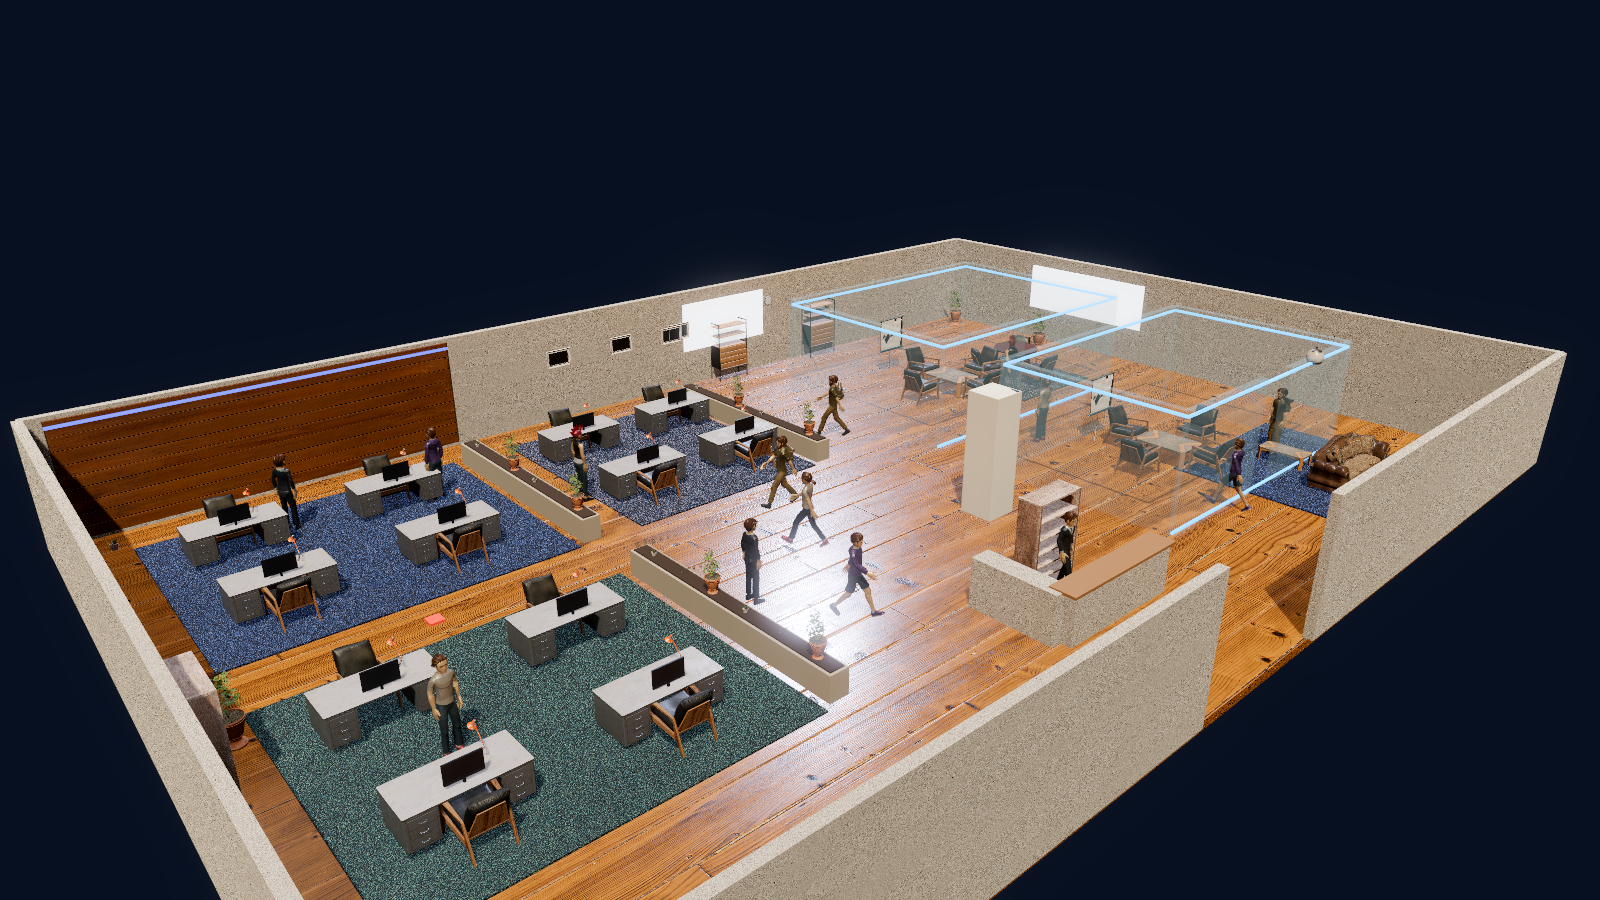
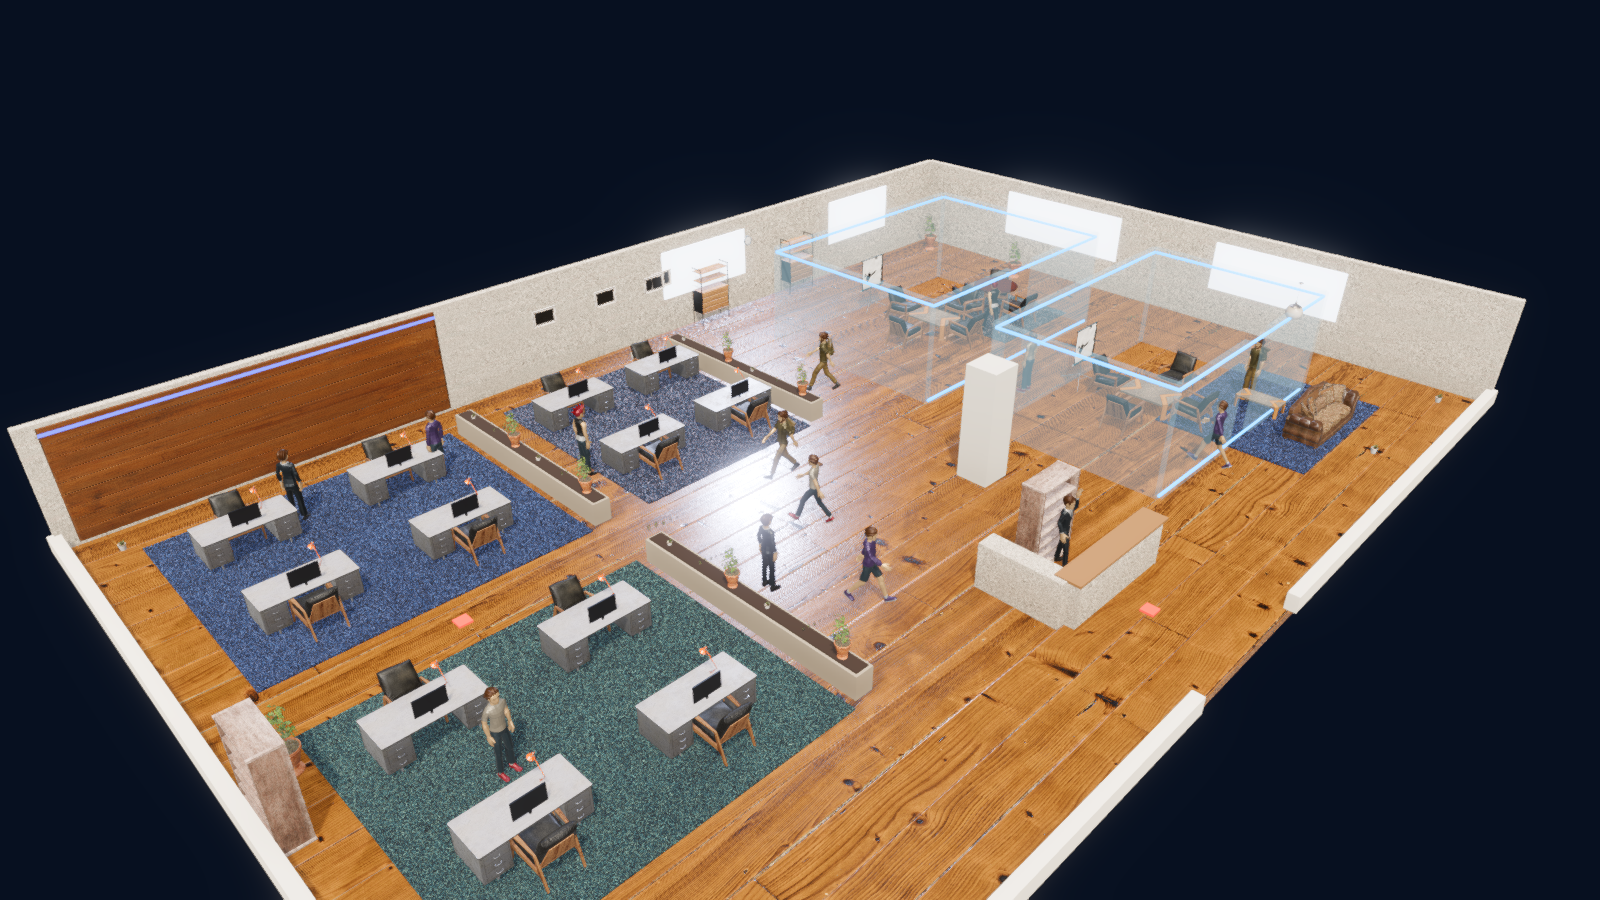
feat(godot): 돌하우스 컷어웨이 + 상품급 재질 — 시안 아이소 뷰 근접
- 근접 벽(앞 maxy·좌 minx)을 무릎높이 크림 턱으로 낮춰 트인 아이소 뷰(먼 벽=피처월 유지)
- 폴리시드 우드 바닥(clearcoat sheen) + 절제된 albedo로 텍스처 보존
- 피처월 오프화이트 상향, 채광창을 전체높이 벽(뒷·우)으로 재배치
- 키라이트/글로우 임계 조정으로 바닥 스펙큘러 블로우아웃 완화
- render_capture 씬 추가: 결정적 카메라 + 오버레이 앵커 자동 투영 산출
- 대시보드 DESK/ROOM 앵커를 투영 계산값으로 교체(정밀 정렬)

diff --git a/frontend/app/(app)/dashboard/page.tsx b/frontend/app/(app)/dashboard/page.tsx
@@ -54,15 +54,15 @@ export default function OfficePage() {
   );
 }
 
-// 렌더 이미지 좌표(%) — 책상/룸 앵커(office-render.png 기준 수동 정렬)
+// 렌더 이미지 좌표(%) — 책상/룸 앵커. render_capture.gd가 카메라 투영으로 자동 산출(불변).
 const DESK_ANCHORS = [
-  { x: 24, y: 60 }, { x: 31, y: 68 }, { x: 20, y: 72 }, { x: 29, y: 80 },
-  { x: 37, y: 54 }, { x: 41, y: 62 }, { x: 34, y: 48 }, { x: 45, y: 74 },
-  { x: 15, y: 66 }, { x: 26, y: 52 }, { x: 39, y: 82 }, { x: 48, y: 58 },
+  { x: 15.1, y: 57.3 }, { x: 24.7, y: 50.9 }, { x: 18.8, y: 63.9 }, { x: 28.7, y: 56.3 },
+  { x: 35.8, y: 43.4 }, { x: 41.4, y: 39.6 }, { x: 40.2, y: 47.6 }, { x: 45.8, y: 43.4 },
+  { x: 26.5, y: 77.8 }, { x: 37.2, y: 67.6 }, { x: 32.5, y: 88.7 }, { x: 43.6, y: 76.2 },
 ];
 const ROOMS = [
-  { name: "회의실 A", x: 57, y: 36, cap: 6 },
-  { name: "회의실 B", x: 73, y: 42, cap: 4 },
+  { name: "회의실 A", x: 58.7, y: 28.0, cap: 6 },
+  { name: "회의실 B", x: 72.7, y: 35.6, cap: 4 },
 ];
 
 function OfficeStage({
